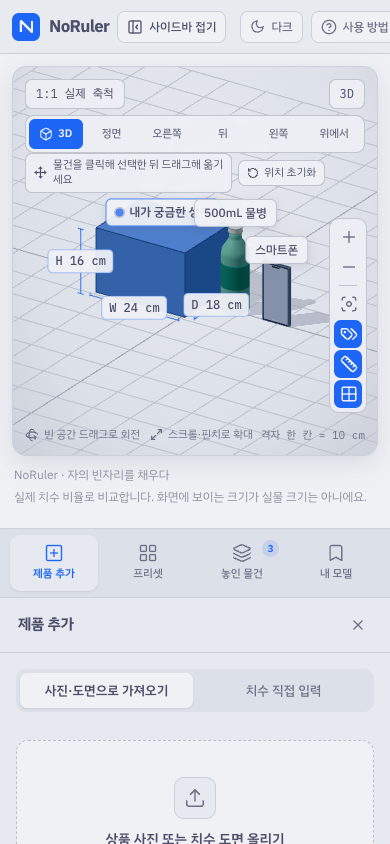
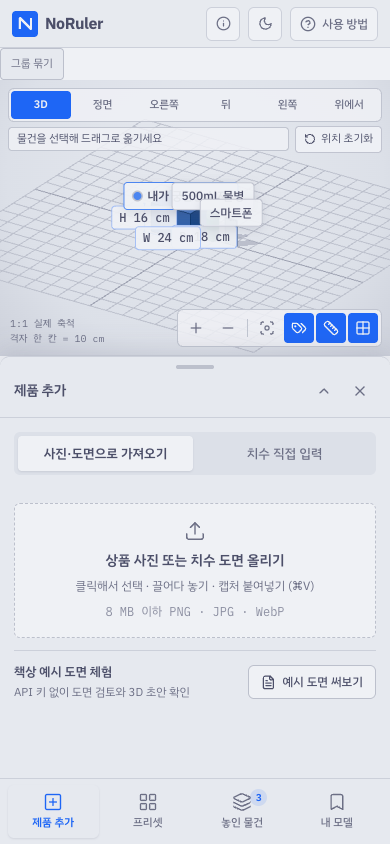
docs: refresh README and screenshots

diff --git a/scripts/screenshots.ts b/scripts/screenshots.ts
@@ -145,6 +145,8 @@ async function takeScreenshots(browser: Browser, url: string) {
 
   const mobile = await openApp(browser, url, true);
   await expect(button(mobile, '제품 추가')).toBeVisible();
+  await button(mobile, '제품 추가').click();
+  await expect(mobile.getByRole('complementary', { name: '도구 패널' })).toBeVisible();
   const mobileImage = await capture(mobile);
   await mobile.close();
 
